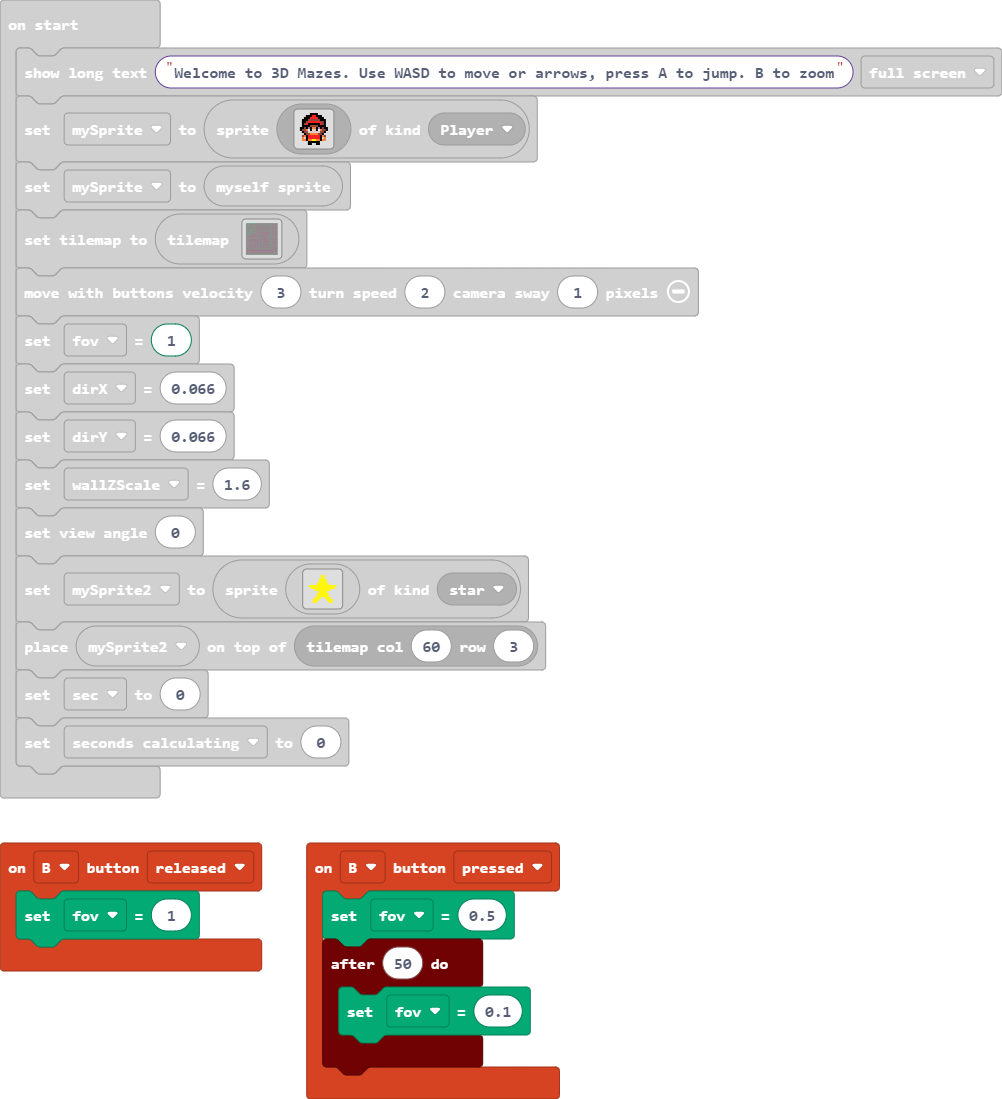
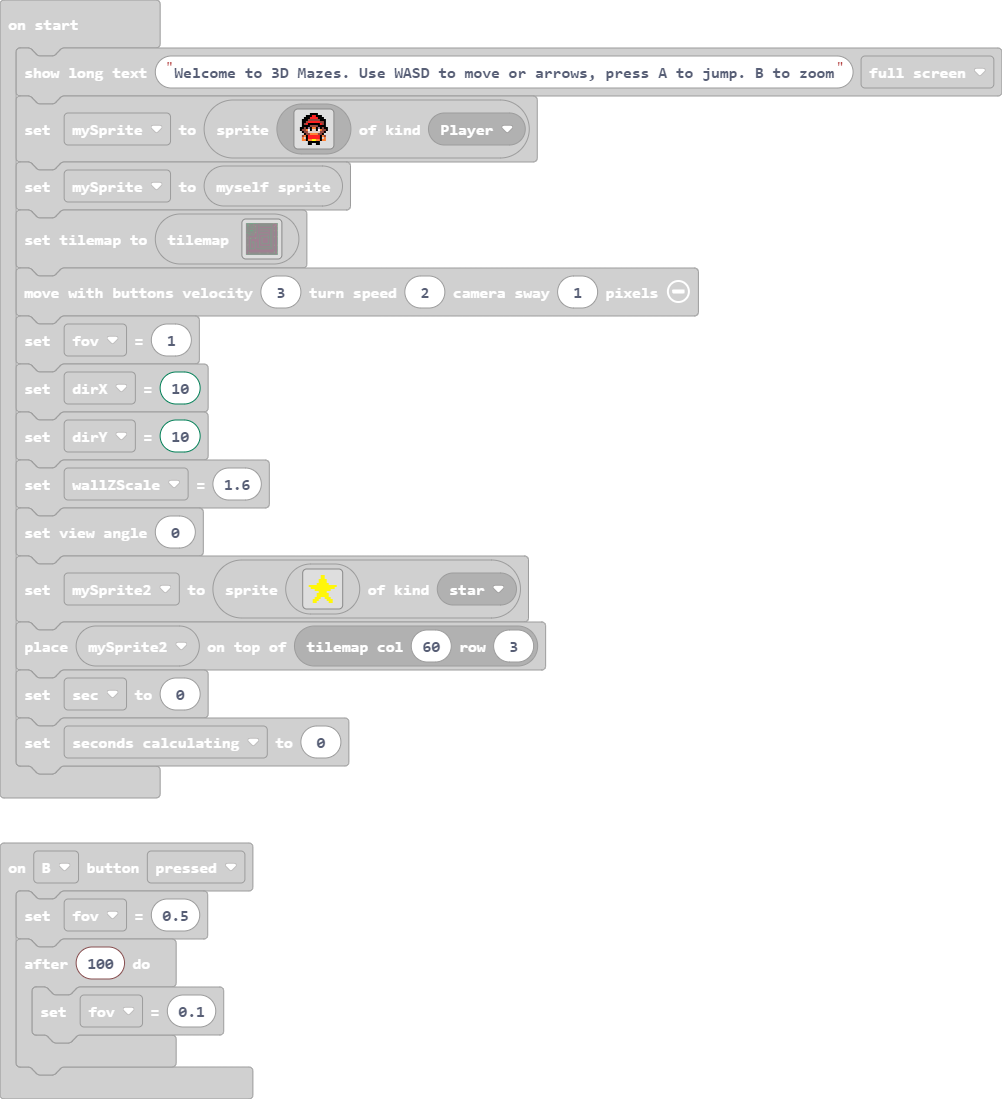
Update main.blocks, main.ts

Changed region(s): [[0.0, 0.7425, 0.5569, 1.0], [0.1547, 0.3094, 0.2475, 0.4331]]

diff --git a/main.ts b/main.ts
@@ -11,7 +11,7 @@ sprites.onOverlap(SpriteKind.Player, SpriteKind.ultimate_star_rainbow, function 
 })
 controller.B.onEvent(ControllerButtonEvent.Pressed, function () {
     Render.setAttribute(Render.attribute.fov, 0.5)
-    timer.after(50, function () {
+    timer.after(100, function () {
         Render.setAttribute(Render.attribute.fov, 0.1)
     })
 })
@@ -143,8 +143,8 @@ mySprite = Render.getRenderSpriteVariable()
 tiles.setCurrentTilemap(tilemap`level2`)
 Render.moveWithController(3, 2, 1)
 Render.setAttribute(Render.attribute.fov, 1)
-Render.setAttribute(Render.attribute.dirX, 0.066)
-Render.setAttribute(Render.attribute.dirY, 0.066)
+Render.setAttribute(Render.attribute.dirX, 10)
+Render.setAttribute(Render.attribute.dirY, 10)
 Render.setAttribute(Render.attribute.wallZScale, 1.6)
 Render.setViewAngleInDegree(0)
 mySprite2 = sprites.create(img`
